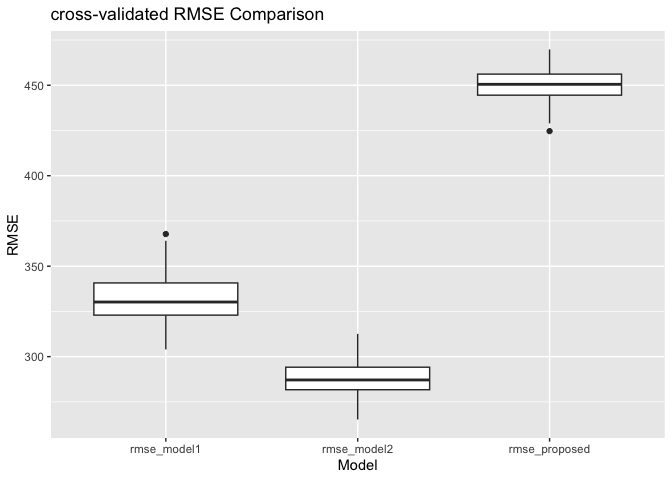
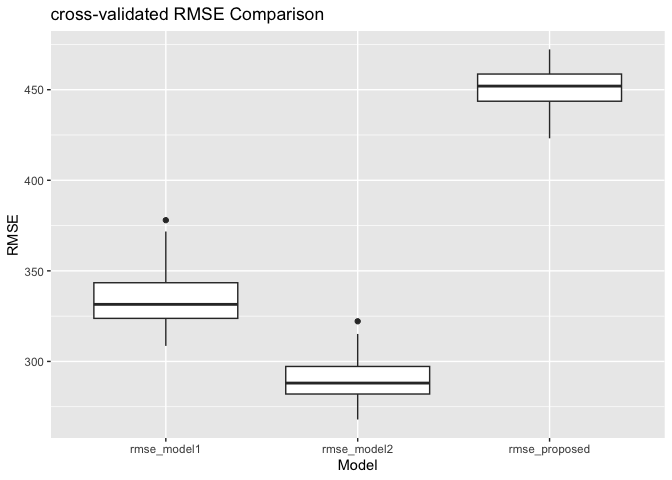
Final commit finished problem 3

diff --git a/p8105_hw6_lah2231.md b/p8105_hw6_lah2231.md
@@ -367,7 +367,7 @@ gestational age, explaining 57.67% of the variability because of the
 adjusted R² = 0.5767. Both predictors are significant with p \< 0.001.
 Residual standard error is 333.2 g.
 
-## Model 2: Head circumference, length, sex, and interactions
+## Model 2: Head circumference, length, sex
 
 ``` r
 model2 <- lm(bwt ~ bhead * blength * babysex, data = birthweight_data)
@@ -465,6 +465,6 @@ cv_summary |>
     ## # A tibble: 3 × 5
     ##   model         mean_rmse median_rmse min_rmse max_rmse
     ##   <chr>             <dbl>       <dbl>    <dbl>    <dbl>
-    ## 1 rmse_model1        334.        330.     304.     368.
-    ## 2 rmse_model2        289.        287.     265.     313.
-    ## 3 rmse_proposed      450.        451.     425.     470.
+    ## 1 rmse_model1        335.        332.     309.     378.
+    ## 2 rmse_model2        290.        288.     268.     322.
+    ## 3 rmse_proposed      451.        452.     423.     472.
